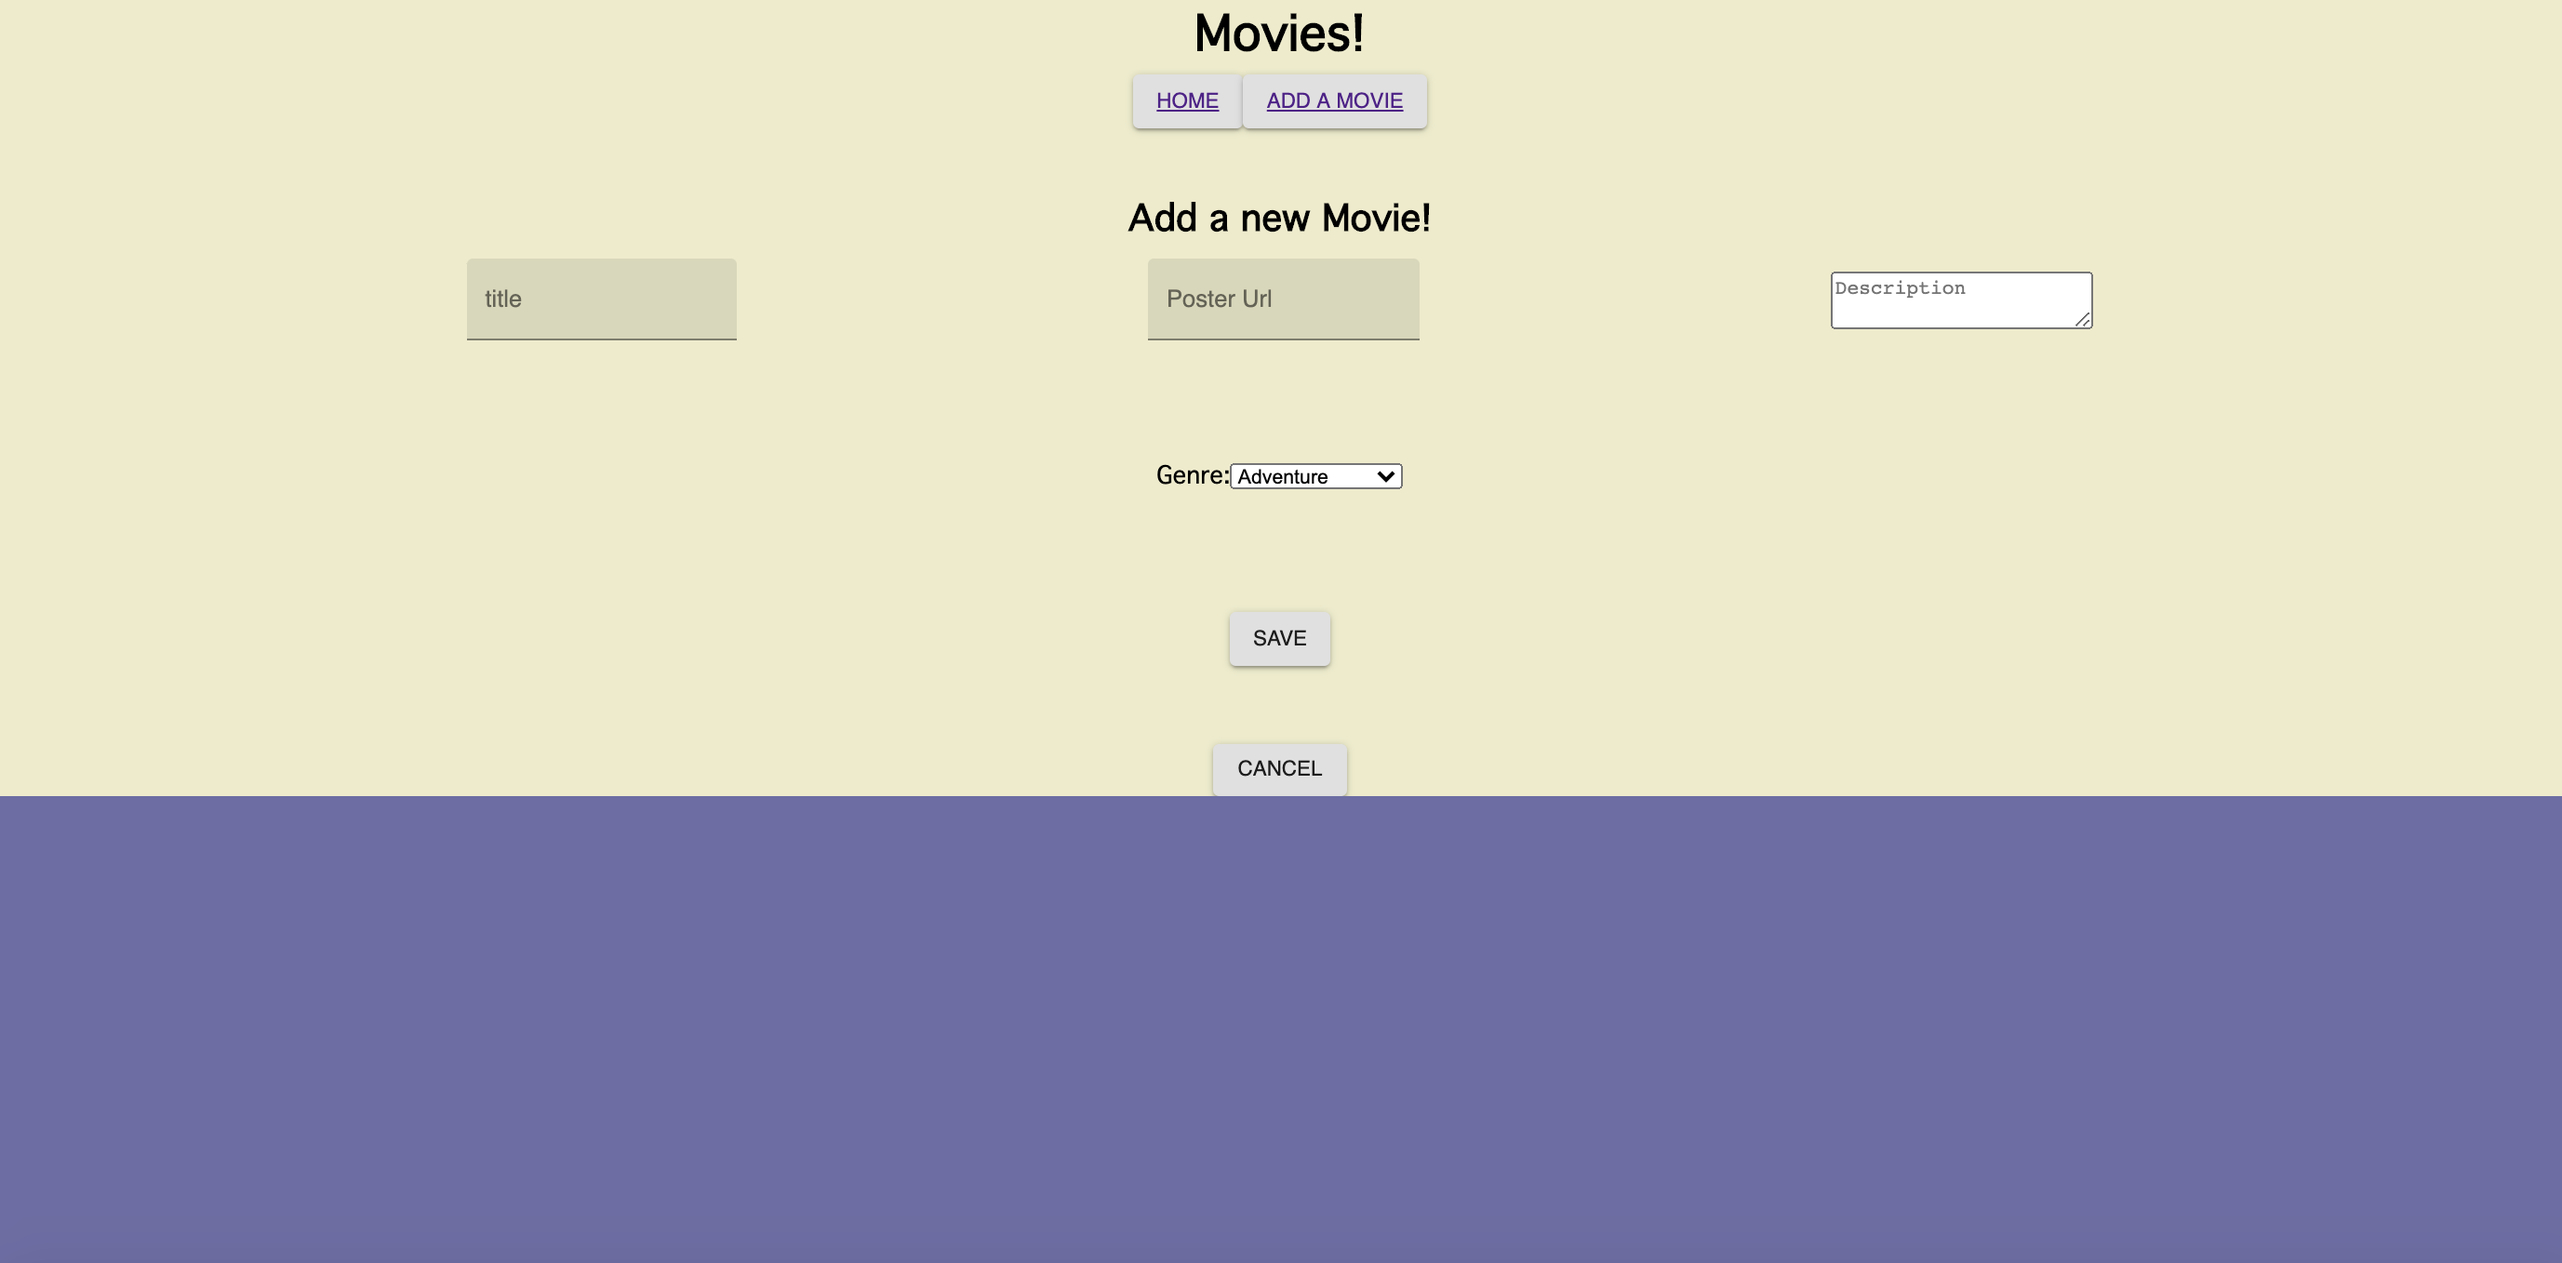
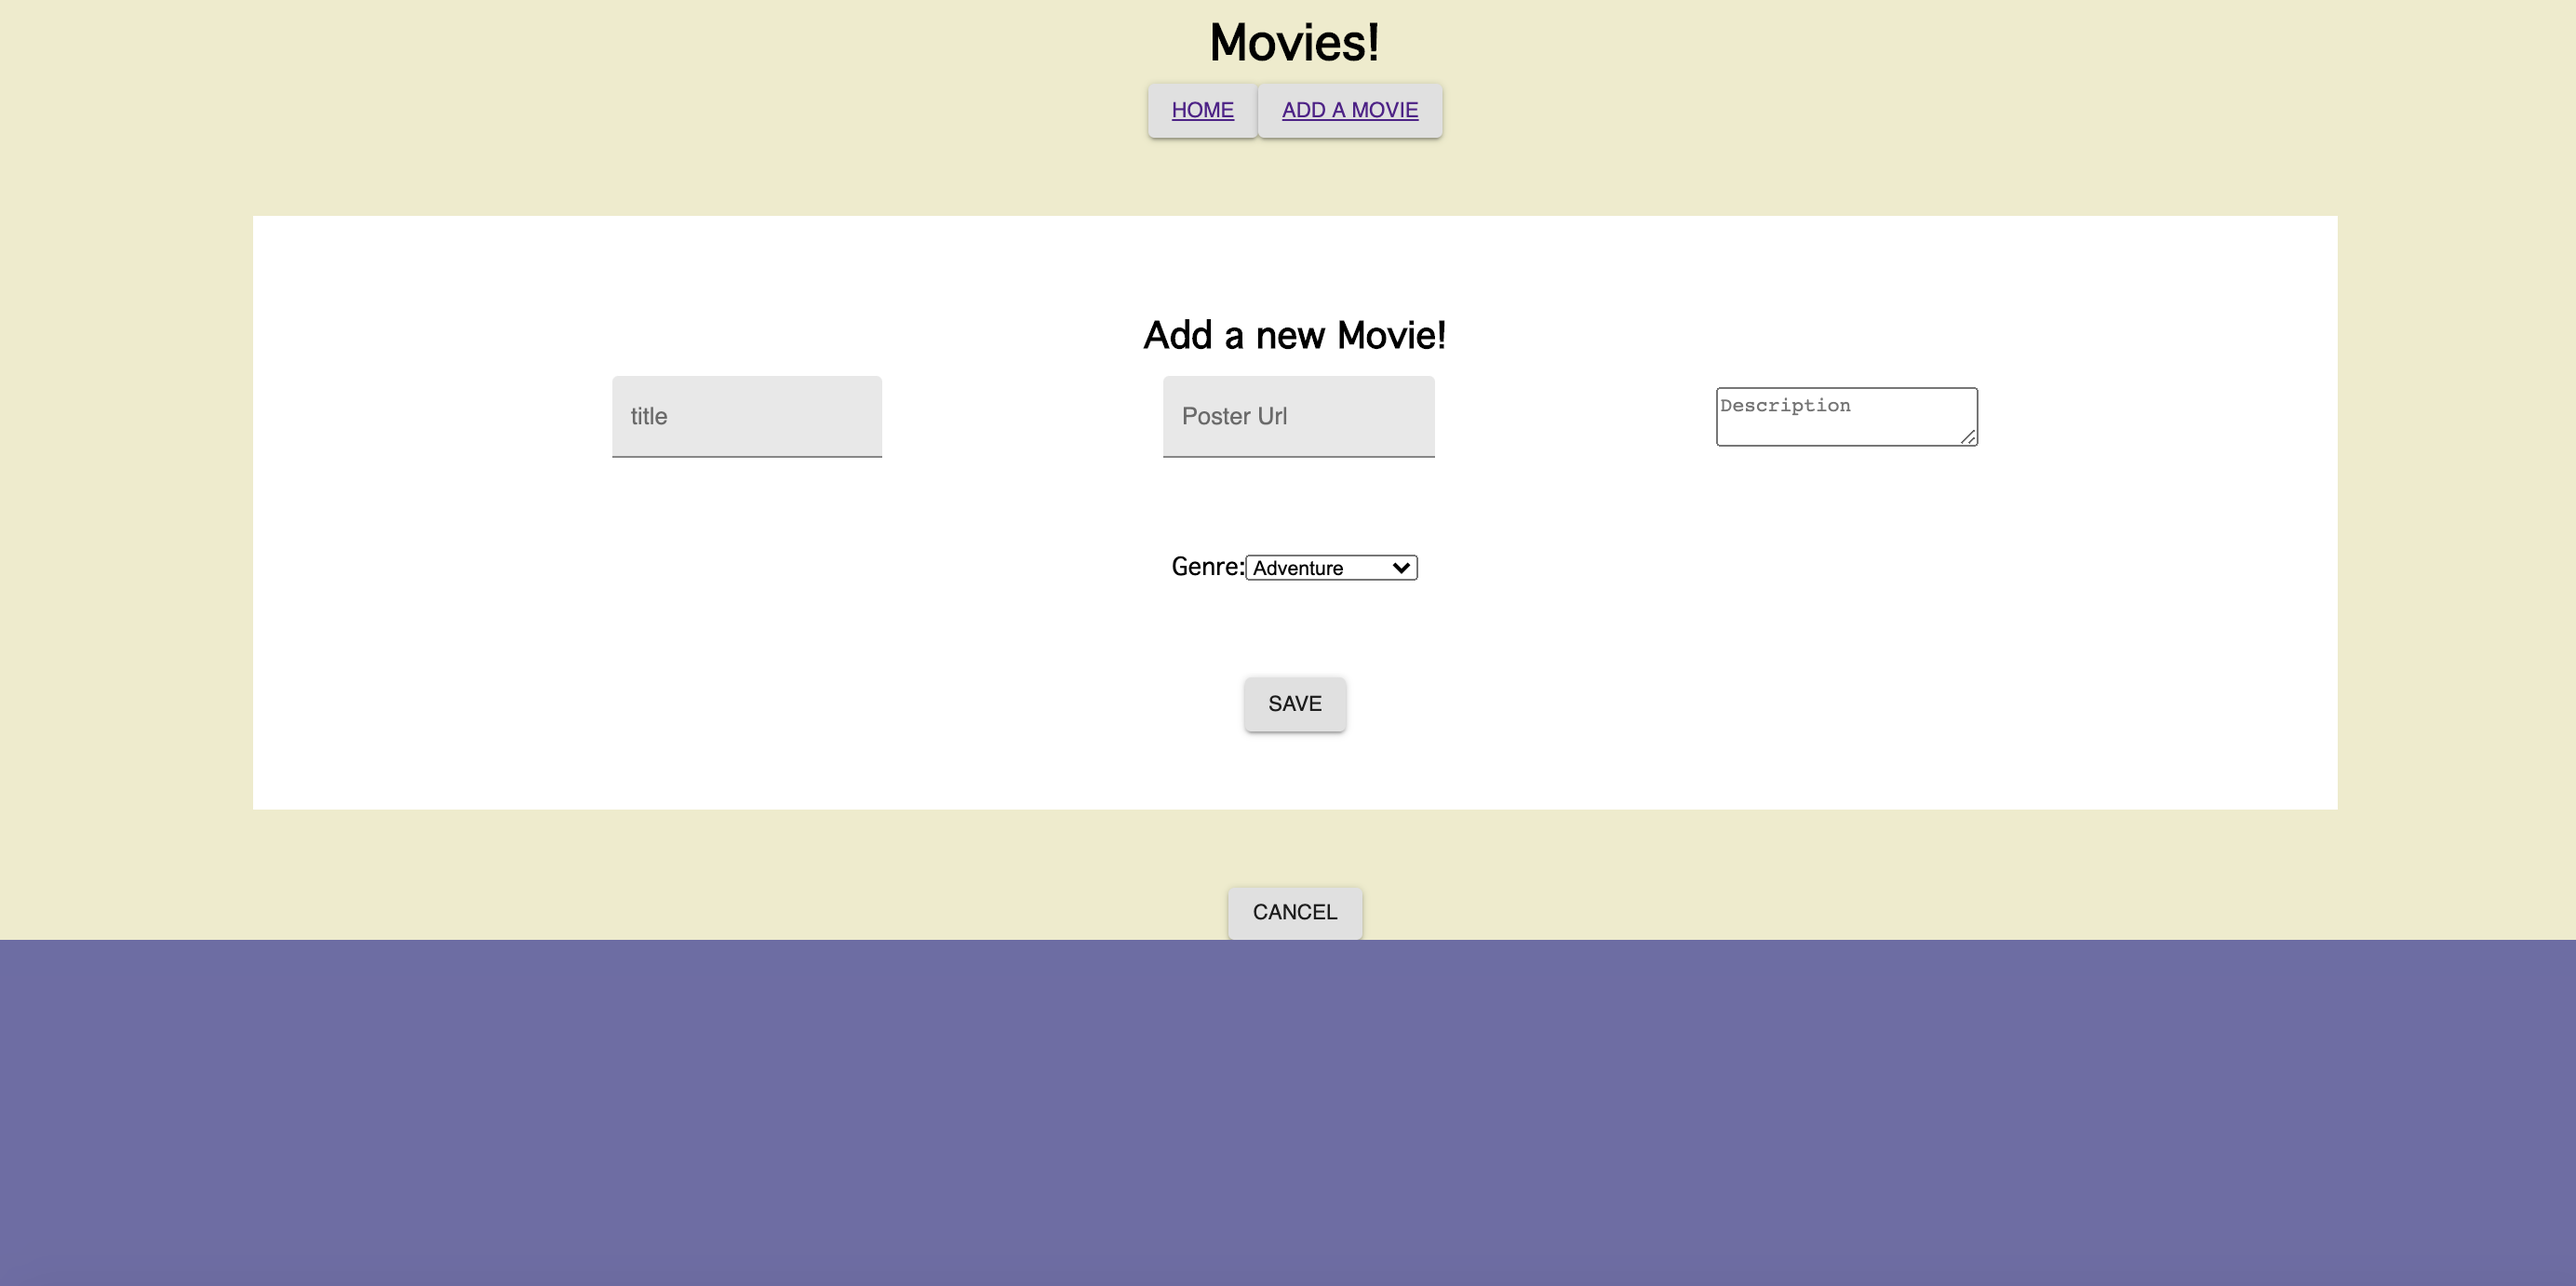
added form cleanup and new readme image

diff --git a/src/components/App/App.css b/src/components/App/App.css
@@ -54,7 +54,12 @@ input {
 }
 
 form {
-  margin: 3%;
+  margin:3%;
+  background-color: white;
+  padding: 3%;
+  margin-right: 10%;
+  margin-left: 10%;
+
 }
 
 desc_text {
